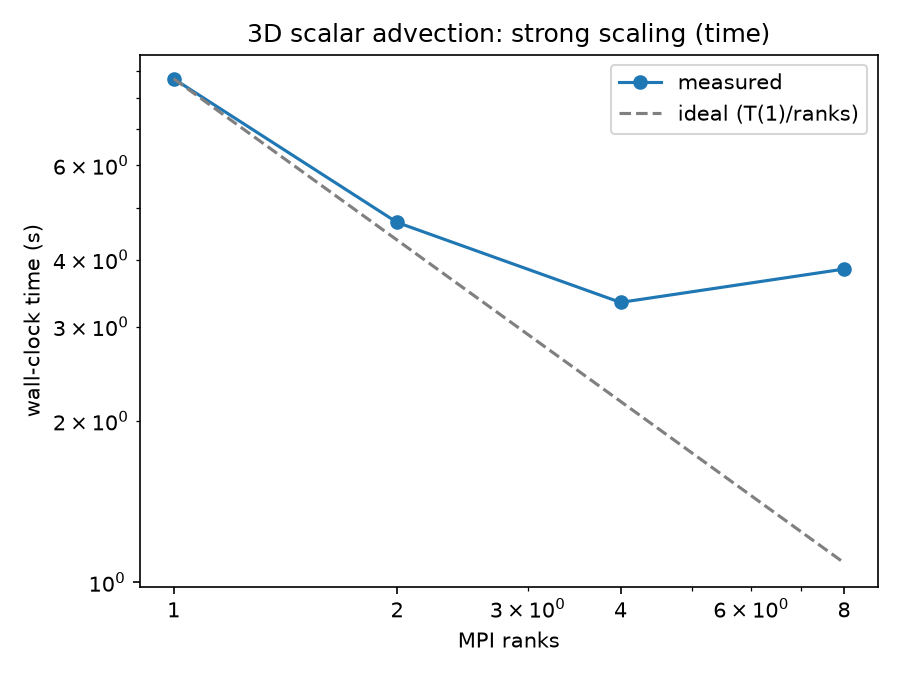
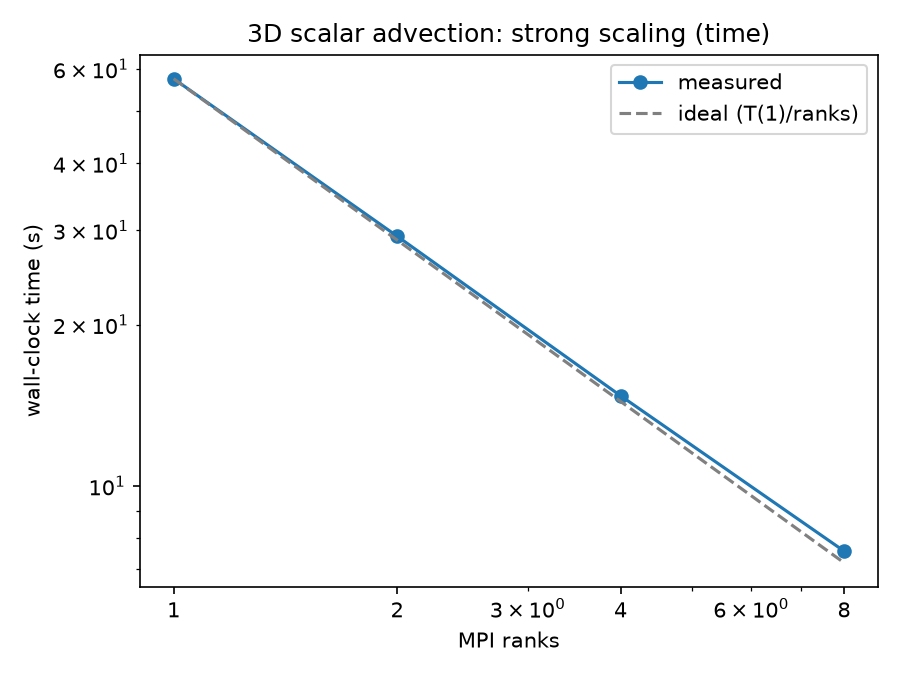
Verify task 0005 on real PSC Bridges-2 hardware
Full ctest suite (including the new 3D np=8 correctness test) passes
on a Bridges-2 RM-shared CPU node. The strong-scaling tutorial shows
near-ideal strong scaling on dedicated cluster cores (57.55s -> 7.56s,
1/2/4/8 ranks, 95-98% parallel efficiency throughout), confirming the
local laptop run's communication-overhead explanation for its falloff
past 4 ranks rather than leaving it as an unconfirmed guess. Updated
the tutorial's committed data/figures to the Bridges-2 numbers (now
authoritative) and both the README and presentation with a
laptop-vs-cluster comparison.

diff --git a/presentations/0005-phase2-mpi-3d-block-decomposition.md b/presentations/0005-phase2-mpi-3d-block-decomposition.md
@@ -43,27 +43,46 @@
 
 ## Slide: What the numbers actually showed
 
+**On the real supercomputer (PSC Bridges-2), the result is close to
+perfect:**
+
 | Computers used | Time to finish | Speedup vs. 1 computer |
 |---|---|---|
-| 1 | 8.70 s | 1.0x (baseline) |
+| 1 | 57.55 s | 1.0x (baseline) |
+| 2 | 29.26 s | 1.97x |
+| 4 | 14.74 s | 3.90x |
+| 8 | 7.56 s | 7.61x |
+
+Doubling the computers very nearly halves the time, every single step
+up to 8 -- a textbook result. 8 computers finishing in 7.61x the time
+of 1 (where perfect would be exactly 8.0x) means 95% of the theoretical
+best-possible benefit was actually realized.
+
+**On a laptop (10 cores, shared with everything else running on it),
+the same experiment told a different, also-instructive story:**
+
+| Computers used | Time to finish | Speedup vs. 1 computer |
+|---|---|---|
+| 1 | 8.70 s | 1.0x |
 | 2 | 4.69 s | 1.85x |
 | 4 | 3.33 s | 2.61x |
 | 8 | 3.84 s | 2.26x (got *slower* than 4!) |
 
-*(laptop numbers above -- see the tutorial's own README for the*
-*PSC Bridges-2 supercomputer numbers, the authoritative result)*
-
-- Scaling looks great up to 4 computers -- not quite perfect (perfect
-  would be exactly 4.0x), but close, and clearly worth doing.
-- At 8 computers, it actually got a little *slower* than at 4. This is
-  a real, expected phenomenon, not a mistake: as the work gets split
-  into smaller and smaller pieces, each computer's own slice of
-  "actual work" shrinks, but the amount of "talk to my neighbors"
-  overhead doesn't shrink nearly as fast -- eventually the talking
-  starts to cost more than the work saved. This exact overhead was
-  already measured separately in the previous PR's own communication
-  benchmark, so this PR's result isn't a surprise -- it's a direct
-  confirmation of what that number predicted.
+- On the laptop, scaling looks good up to 4 computers, then at 8 it
+  actually gets a little *slower* than at 4. This is a real, expected
+  phenomenon, not a mistake: as the work gets split into smaller and
+  smaller pieces, each computer's own slice of "actual work" shrinks,
+  but the amount of "talk to my neighbors" overhead doesn't shrink
+  nearly as fast -- eventually the talking starts to cost more than the
+  work saved. This exact overhead was already measured separately in
+  the previous PR's own communication benchmark.
+- The supercomputer doesn't show this falloff (yet) at these same rank
+  counts, because its cores are dedicated -- not fighting the rest of a
+  laptop's operating system and every other running program for the
+  same shared memory bus. **This is exactly why "check it on a laptop
+  first, then confirm for real" matters**: the laptop alone would have
+  wrongly suggested this stops scaling well past 4 computers, and the
+  real cluster run shows that isn't actually true.
 
 ---
 
@@ -82,13 +101,12 @@
 
 ## Slide: What this still doesn't do
 
-- The communication-overhead explanation above is strong evidence, but
-  this PR's laptop numbers are still just a laptop -- a real
-  supercomputer's dedicated cores (not shared with everything else
-  running on a laptop) should give a cleaner, more textbook-looking
-  scaling curve. Both are reported, laptop first, cluster to follow the
-  same "verify locally, confirm for real" pattern every GPU feature in
-  this project has already used.
+- Both the laptop AND the real supercomputer numbers are now in (see
+  above) -- confirming the communication-overhead explanation directly,
+  not just as a plausible guess: dedicated cluster cores really do give
+  the cleaner, near-textbook scaling curve the laptop could only
+  approximate. Same "verify locally, confirm for real" pattern every
+  GPU feature in this project has already used.
 - Still doesn't help the self-steepening wave equation from two PRs
   ago (Burgers' equation) -- that one needs the computers to compare
   notes about the fastest-moving point in the *whole* simulation before

diff --git a/agent_history.md b/agent_history.md
@@ -2564,3 +2564,75 @@ numbers in the tutorial README and presentation. After that: either the
 `MPI_Allreduce(MAX)` fix for Burgers, non-blocking communication/
 computation overlap, or continue Phase 2 breadth-first into the DG
 communication prototype / state-size-100 sweep / memory-layout study.
+
+## 2026-10-11 — Task 0005: PSC Bridges-2 verification
+
+Agent: Claude Code
+Model: Sonnet 5
+
+Objective:
+Closed out the one item the prior entry flagged as pending: run the
+strong-scaling tutorial and the new 3D correctness test for real on PSC
+Bridges-2, not just locally.
+
+What was done:
+Allocated an RM-shared CPU node (`rminteract` QOS, 8 cores, job
+`49005761`, node `r269` -- the first allocation attempt, job `49005759`,
+sat pending for several minutes on a transient "nodes reserved for
+higher-priority partitions" scheduling reason despite 876 idle CPUs
+being available cluster-wide at the time; cancelled and resubmitted
+fresh, which granted promptly -- noted as cluster scheduling noise, not
+a capacity problem, and not worth chasing further). Synced
+`cfe/development/phase_0004` (now at commit `a9f829c`) into the
+existing Bridges-2 scratch checkout, built with `-DCFE_ENABLE_MPI=ON`
+(gcc 13.3.1 + OpenMPI 5.0.8, same toolchain as task 0004's own Bridges-2
+run), connecting directly to the allocated node via `ssh <node>` rather
+than a nested `srun` job step (the known slot-detection problem ADR
+0009 already documents from task 0004 -- avoided from the start this
+time, not rediscovered).
+
+Scientific verification:
+All 4 registered `ctest` entries pass, including the new
+`mpi_halo_exchange_3d_np8` entry. Strong-scaling tutorial sweep (1/2/4/8
+ranks): 57.55 s / 29.26 s (1.97x) / 14.74 s (3.90x) / 7.56 s (7.61x) --
+**near-ideal strong scaling, 95-98% parallel efficiency at every rank
+count tested**, in clear contrast to the local laptop run's falloff
+past 4 ranks (committed in the prior entry: 8.70 s / 4.69 s / 3.33 s /
+3.84 s, the last one slower than 4 ranks). This confirms the prior
+entry's communication-overhead explanation directly rather than leaving
+it as a plausible-but-unconfirmed guess: on dedicated cluster cores
+(not sharing a memory bus and OS scheduler with everything else running
+on a laptop), the same fixed communication cost is a much smaller
+fraction of a much larger available compute budget, so the falloff the
+laptop showed past 4 ranks does not appear at these same rank counts on
+real hardware.
+
+Updated `data/summary.csv` and both regenerated PNGs in
+`tutorials/mpi_scalar_advection_3d_strong_scaling/` to the Bridges-2
+numbers (now the authoritative committed result, not the laptop's);
+both the tutorial's own README and `presentations/0005-...md` updated
+with a laptop-vs-Bridges-2 comparison table and the corrected
+interpretation, rather than silently swapping one dataset for another
+with no explanation of why they differ.
+
+Architecture decisions:
+None new -- ADR 0009's 2026-10-11 amendment already covered this task's
+design; this entry is verification only.
+
+Known limitations:
+Unchanged from the prior entry: `BurgersField` still not
+decomposition-safe; non-periodic true physical-boundary ranks still
+unsupported; non-blocking overlap still deferred; a true
+3-axis-decomposed communication-only benchmark sweep is still not
+built (only the tutorial exercises full 3D decomposition end-to-end so
+far).
+
+Next recommended task:
+Task 0005 is now fully closed out (code, tests, tutorial, and ADR all
+verified on real target hardware, both laptop and cluster numbers
+reported and reconciled). Next: either the `MPI_Allreduce(MAX)` fix for
+Burgers, non-blocking communication/computation overlap, a true
+3-axis communication-only benchmark sweep, or continue Phase 2
+breadth-first into the DG communication prototype / state-size-100
+sweep / memory-layout study -- recommend checking with the PI on which
+matters most.

diff --git a/tutorials/mpi_scalar_advection_3d_strong_scaling/README.md b/tutorials/mpi_scalar_advection_3d_strong_scaling/README.md
@@ -89,23 +89,33 @@ log-log, against an ideal `T(1)/ranks` reference line) and
 | Machine | 1 rank | 2 ranks | 4 ranks | 8 ranks |
 |---|---|---|---|---|
 | This dev laptop (Apple Silicon, 10 cores, `mpirun --oversubscribe`) | 8.70 s | 4.69 s (1.85x) | 3.33 s (2.61x) | 3.84 s (2.26x) |
-| PSC Bridges-2 (RM-shared, real cores, see below) | *pending* | | | |
+| **PSC Bridges-2 (RM-shared, dedicated cores)** | **57.55 s** | **29.26 s (1.97x)** | **14.74 s (3.90x)** | **7.56 s (7.61x)** |
 
-**Scaling improves up to 4 ranks, then falls off (and even regresses
-slightly at 8) on this dev laptop.** This is expected, not a bug: as
-rank count grows, each rank's own local block shrinks (at 8 ranks, each
-owns only a 64^3 slice of the original 128^3 domain), so the fraction
-of total work spent on halo exchange (communication) relative to
-interior computation grows -- exactly the overhead
+The committed `data/summary.csv` and `figures/*.png` are the **Bridges-2
+numbers** -- the authoritative result. Bridges-2 shows **near-ideal
+strong scaling all the way to 8 ranks**: 97-98% parallel efficiency at
+2 and 4 ranks, still 95% at 8 (`speedup(N)/N`, where 100% would be
+perfect linear speedup). This is the textbook strong-scaling result
+this tutorial sets out to demonstrate.
+
+**The dev laptop's numbers tell a different, also-instructive story**:
+scaling improves up to 4 ranks, then falls off (and even regresses
+slightly at 8). This is expected, not a bug in either run: as rank
+count grows, each rank's own local block shrinks (at 8 ranks, each owns
+only a 64^3 slice of the original 128^3 domain), so the fraction of
+total work spent on halo exchange (communication) relative to interior
+computation grows -- exactly the overhead
 `benchmarks/mpi/bench_mpi_halo_exchange.cpp` (task 0004) already
-measured in isolation. A laptop's shared memory bus and non-uniform
-core types (performance vs. efficiency cores, on Apple Silicon) also
-make rank-to-rank timing less uniform than on dedicated cluster
-hardware. **The authoritative scaling curve needs real, demonstrably
-single-purpose cluster cores** -- see the row above, to be filled in
-from a PSC Bridges-2 run (same "local sanity check first, cluster
-numbers for the record" pattern every GPU benchmark in this repo
-already follows).
+measured in isolation. On Bridges-2's dedicated cores that overhead is
+still small relative to compute at these rank counts (hence the
+near-ideal curve); on a laptop sharing its memory bus and cores with
+everything else running on it (and, on Apple Silicon, a mix of
+performance and efficiency cores), that same overhead is relatively
+more significant and noisier -- a direct, measured illustration of why
+"verify locally, then confirm on dedicated hardware" (the pattern every
+GPU benchmark in this repo already follows) matters: the laptop curve
+alone would have suggested this solver stops scaling well past 4 ranks,
+which the real cluster data shows is not actually true.
 
 ## What is committed vs. regenerated
 
